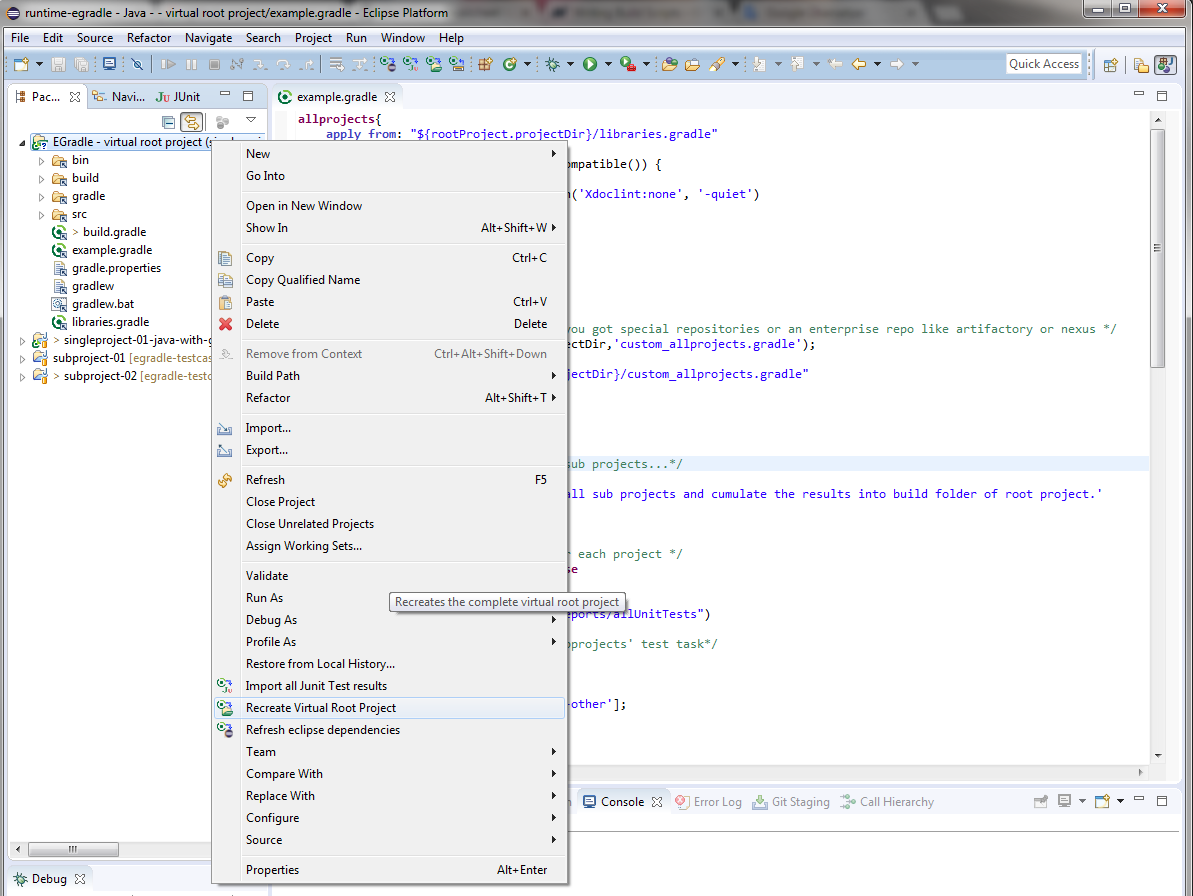
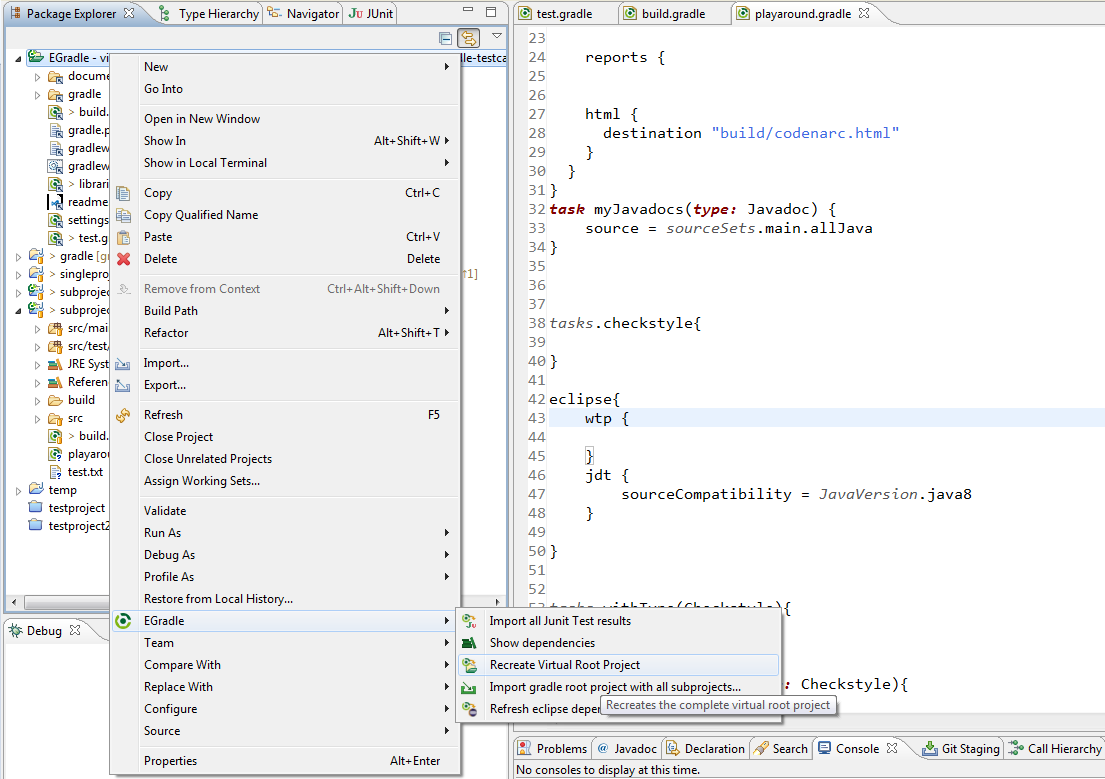
Documentation EGradle submenu

diff --git a/egradle-plugin-main/html/user_guide/virtual_root_project.html b/egradle-plugin-main/html/user_guide/virtual_root_project.html
@@ -193,7 +193,7 @@
 	<br />
 	<br />
 	<h2 id="popup-actions">Popup actions</h2>
-	<p>On virtual root project you got popup actions (same as on toolbar)</p>
+	<p>On virtual root project you got popup actions. Contains same as on toolbar and some additionals.</p>
 	<img src="images/egradle-virual-rootproject-popup-menu.png" />
 	<p>
 		<a href="#top">Top</a>
